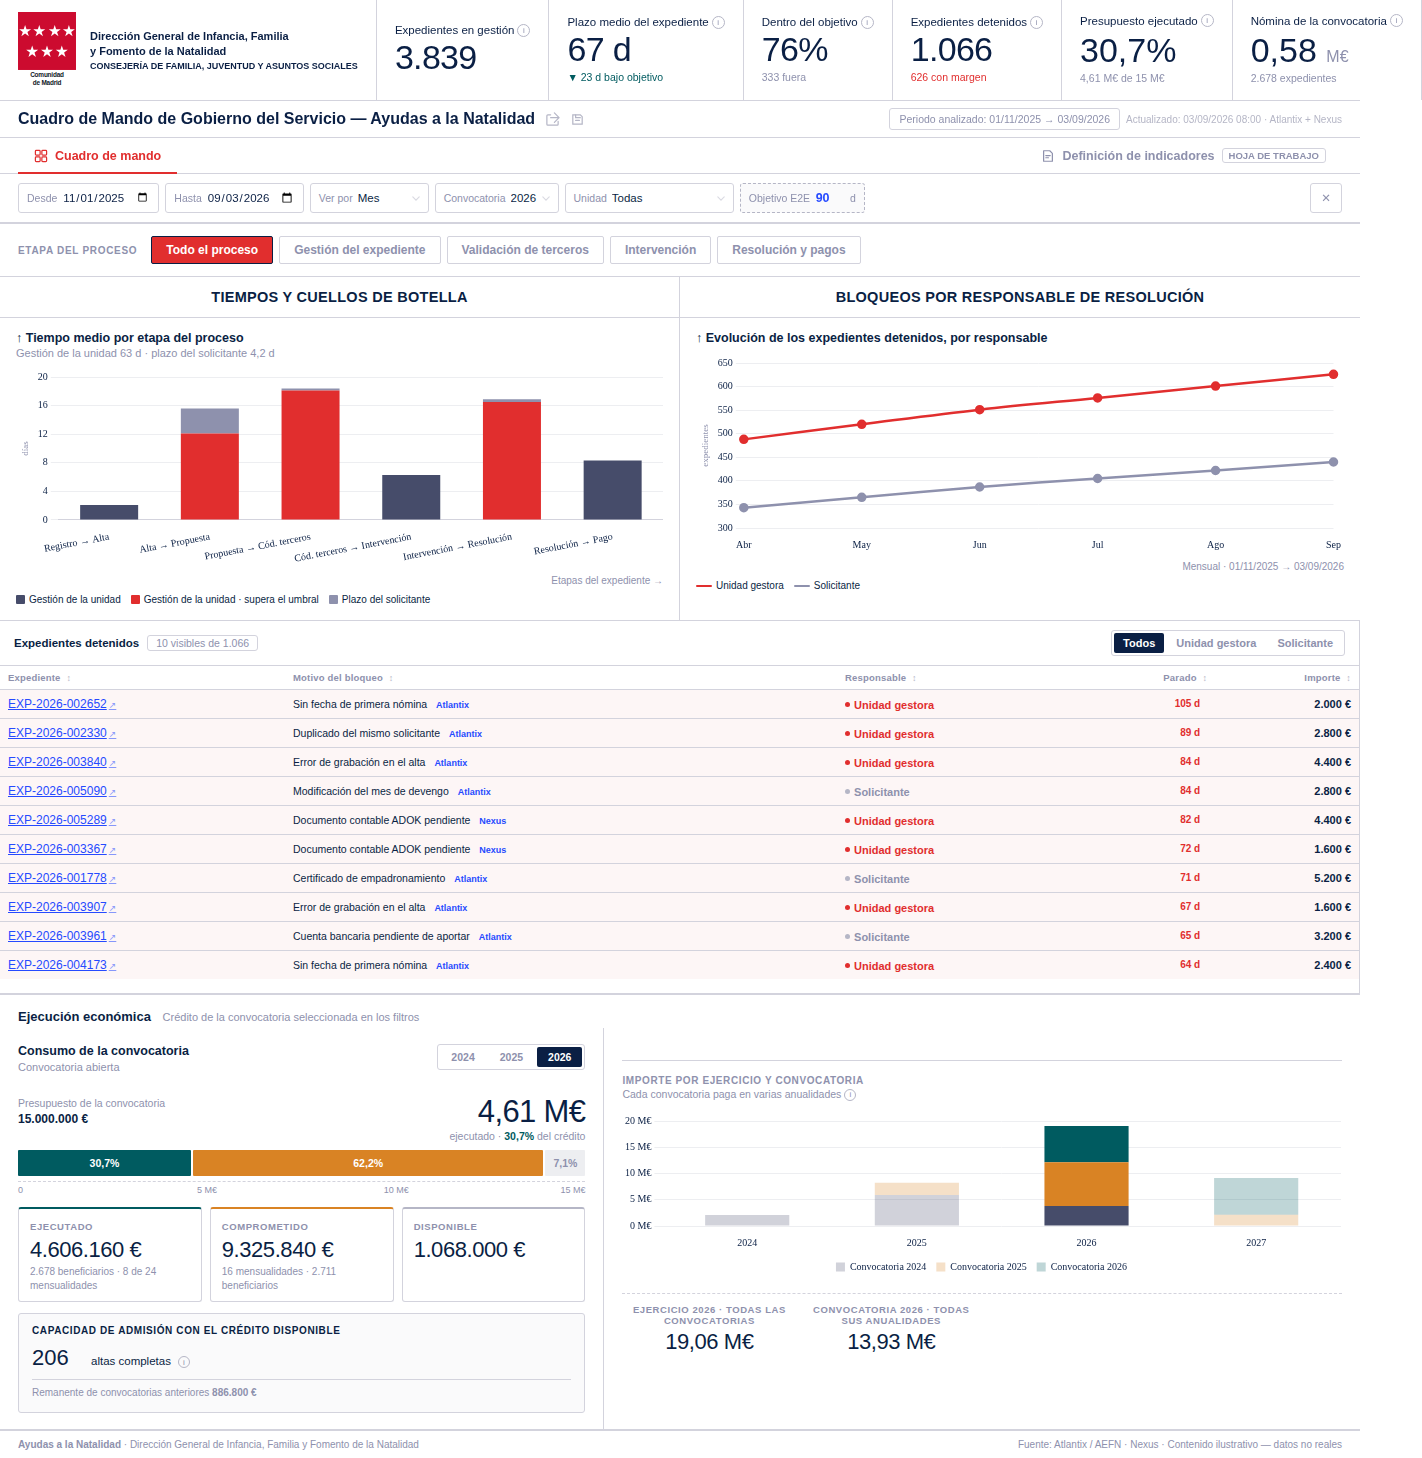
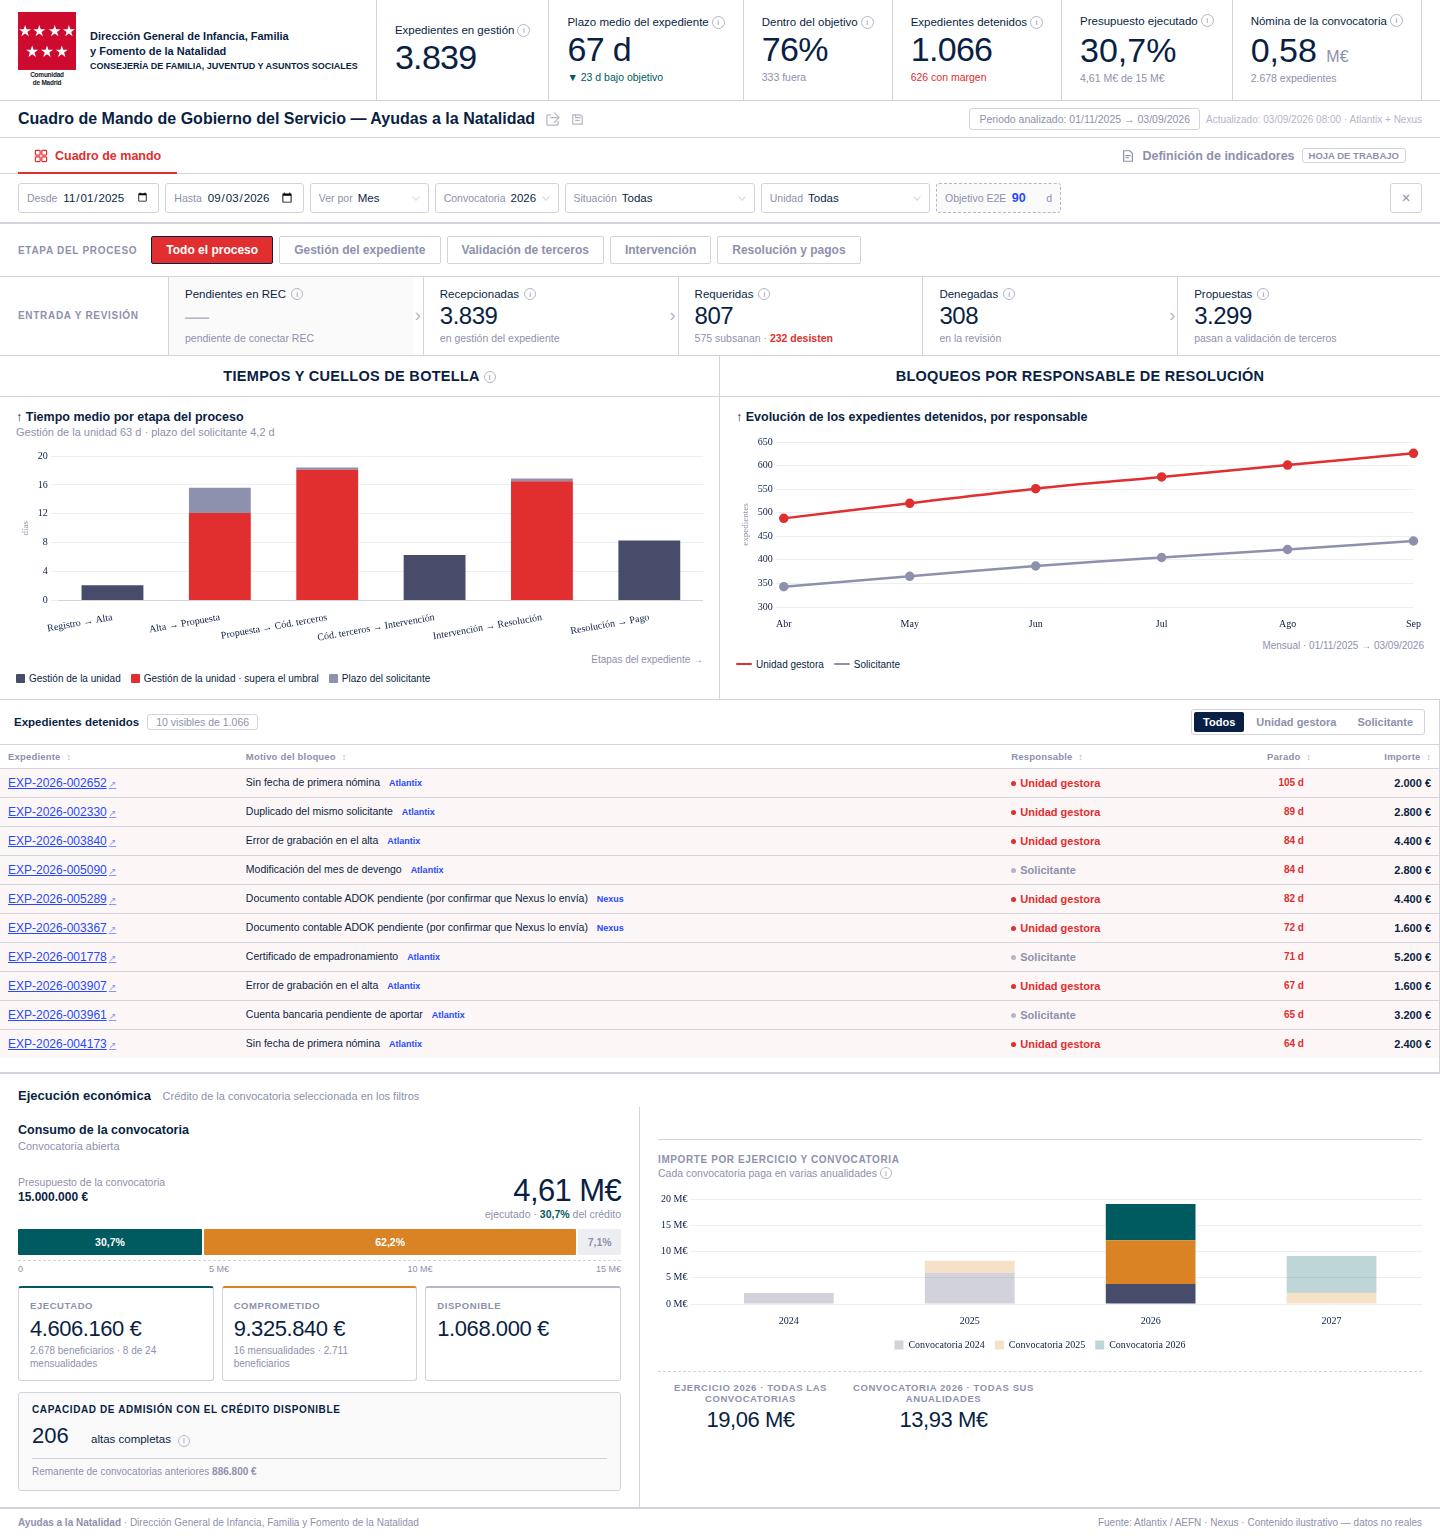
Natalidad v9.1: entrada y requerimientos, filtro de situación y avisos de lo pendiente
Claude-Session: https://claude.ai/code/session_012PCcGQXYr4PR8xb2pBrhox

diff --git a/mockups/MockupNatalidad_v9.html b/mockups/MockupNatalidad_v9.html
@@ -795,6 +795,20 @@ th.col-focus{background:#FAFAFB!important;color:#0A1F44!important;}
 
 .blk-ttl{padding:14px 18px 4px;font-size:13px;font-weight:700;color:var(--cnavy);border-top:1px solid var(--cbd);}
 .blk-ttl span{font-size:11px;font-weight:400;color:var(--cgy);margin-left:8px;}
+/* franja de entrada y revisión */
+.ent-strip{display:flex;align-items:stretch;gap:0;border-bottom:1px solid var(--cbd);padding:0 18px;background:#fff;}
+.ent-lbl{align-self:center;font-size:10px;font-weight:700;letter-spacing:.07em;text-transform:uppercase;color:var(--cgy);width:150px;flex-shrink:0;}
+.ent-it{padding:11px 16px;display:flex;flex-direction:column;gap:2px;border-left:1px solid var(--cbd);flex:1 1 0;min-width:0;}
+.ent-it span{font-size:11.5px;color:var(--cnavy);display:flex;align-items:center;gap:5px;}
+.ent-it b{font-size:24px;font-weight:300;color:var(--cnavy);letter-spacing:-.02em;line-height:1.15;}
+.ent-it em{font-style:normal;font-size:10.5px;color:var(--cgy);}
+.ent-it em strong{color:var(--cred);font-weight:600;}
+.ent-pend{background:#FAFAFB;}
+.ent-pend b{color:var(--cgy2);}
+.ent-arr{align-self:center;color:var(--cgy2);font-size:18px;padding:0 2px;}
+.ent-it .ii[data-t]::after{bottom:auto;top:calc(100% + 8px);}
+.ent-it .ii[data-t]::before{bottom:auto;top:calc(100% + 3px);border-top-color:transparent;border-bottom-color:var(--cnavy);}
+.ent-it:last-child .ii[data-t]::after{left:auto;right:-6px;transform:none;}
 </style>
 </head>
 <body>
@@ -866,6 +880,11 @@ th.col-focus{background:#FAFAFB!important;color:#0A1F44!important;}
     <div class="fsel"><span>Convocatoria</span>
       <select id="fConv" onchange="setConvCM(this.value)"><option value="2026">2026</option><option value="2025">2025</option><option value="2024">2024</option></select>
       <svg class="chev" viewBox="0 0 10 6" fill="none"><path d="M1 1l4 4 4-4" stroke="currentColor" stroke-width="1.4" stroke-linecap="round"/></svg></div>
+    <div class="fsel"><span>Situaci&oacute;n</span>
+      <select id="fRes" onchange="filtrar()">
+        <option value="">Todas</option><option>Alta</option><option>Mantenimiento</option><option>Baja</option>
+        <option>Modificaci&oacute;n positiva</option><option>Modificaci&oacute;n negativa</option><option>Pago &uacute;nico</option></select>
+      <svg class="chev" viewBox="0 0 10 6" fill="none"><path d="M1 1l4 4 4-4" stroke="currentColor" stroke-width="1.4" stroke-linecap="round"/></svg></div>
     <div class="fsel"><span>Unidad</span>
       <select id="fUnidad" onchange="filtrar()">
         <option value="">Todas</option><option>Unidad Gestora</option><option>Gesti&oacute;n Econ&oacute;mica</option></select>
@@ -898,6 +917,21 @@ th.col-focus{background:#FAFAFB!important;color:#0A1F44!important;}
   <span class="phase-meta" id="phaseMeta"></span>
 </div>
 
+<!-- ══════════ ENTRADA Y REQUERIMIENTOS ══════════
+     Lo que más se discutió el 29/09: cuántas siguen en REC sin tratar y qué pasa
+     con los requeridos (subsanan o desisten). Una línea, sin gráfico. -->
+<div class="ent-strip">
+  <span class="ent-lbl">Entrada y revisión</span>
+  <div class="ent-it ent-pend"><span>Pendientes en REC <i class="ii" data-t="Solicitudes presentadas en REC que todavía no han abierto expediente en AFN. Hoy no están en Atlantix: se mostrarán cuando se conecte REC (en conversación con administración electrónica).">i</i></span><b>—</b><em>pendiente de conectar REC</em></div>
+  <div class="ent-arr">›</div>
+  <div class="ent-it"><span>Recepcionadas <i class="ii" data-t="Solicitudes recepcionadas con expediente abierto en la etapa Gestión del expediente de Atlantix. Es la misma cifra que «Expedientes en gestión».">i</i></span><b id="entRec">—</b><em>en gestión del expediente</em></div>
+  <div class="ent-arr">›</div>
+  <div class="ent-it"><span>Requeridas <i class="ii" data-t="Expedientes que han quedado para requerir en la revisión de documentación. Los subsanados vuelven a revisión; los desistidos se cierran al vencer el plazo del artículo 73.">i</i></span><b>807</b><em>575 subsanan · <strong>232 desisten</strong></em></div>
+  <div class="ent-it"><span>Denegadas <i class="ii" data-t="Expedientes denegados en la revisión de documentación.">i</i></span><b>308</b><em>en la revisión</em></div>
+  <div class="ent-arr">›</div>
+  <div class="ent-it"><span>Propuestas <i class="ii" data-t="Altas y pagos únicos propuestos para la nómina: recepcionadas, menos requeridas que no subsanan y denegadas. Pendiente de confirmar con Soluciones si la propuesta es un cambio de etapa o un campo con fecha y visado.">i</i></span><b id="entProp">—</b><em>pasan a validación de terceros</em></div>
+</div>
+
 <!-- ══════════ 3 SECCIONES ══════════ -->
 <div id="cmVacio" class="cm-vacio"></div>
 <div id="cmBody">
@@ -918,7 +952,7 @@ th.col-focus{background:#FAFAFB!important;color:#0A1F44!important;}
 
   <!-- 2 · TIEMPOS Y CUELLOS -->
   <div class="section">
-    <div class="sec-title" id="s2Title">Tiempos y cuellos de botella</div>
+    <div class="sec-title" id="s2Title">Tiempos y cuellos de botella <i class="ii" data-t="Cada tramo es el tiempo entre dos cambios de etapa en Atlantix. El paso «Propuesta» está por confirmar con Soluciones: puede ser un cambio de etapa o un campo con fecha y visado dentro de Gestión del expediente.">i</i></div>
     <div class="sec-kpis" id="s2Kpis" style="display:none;"></div>
     <div class="sec-chart">
       <div class="c2-bread" id="c2Bread"></div>
@@ -1065,7 +1099,7 @@ th.col-focus{background:#FAFAFB!important;color:#0A1F44!important;}
         <h3>Consumo de la convocatoria</h3>
         <p id="cvSub">Reparto del crédito a 03/09/2026</p>
       </div>
-      <div class="cv-tabs" id="cvTabs">
+      <div class="cv-tabs" id="cvTabs" style="display:none;">
         <button data-cv="2024" onclick="setConv('2024')">2024</button>
         <button data-cv="2025" onclick="setConv('2025')">2025</button>
         <button data-cv="2026" class="on" onclick="setConv('2026')">2026</button>
@@ -1158,7 +1192,7 @@ th.col-focus{background:#FAFAFB!important;color:#0A1F44!important;}
     <strong>Lo que hoy no podemos calcular.</strong> Las solicitudes presentadas que todavía no han
     abierto expediente en AFN no están en Atlantix: habría que leerlas de REC, donde se clasifican por
     modelo de formulario y no siempre coinciden con lo que el ciudadano pide de verdad. Mientras no se
-    resuelva, la cola de entrada aparece marcada como pendiente en el explorador y en la previsión.
+    resuelva, «Pendientes en REC» aparece marcado como pendiente y el plazo se mide desde la recepción.
   </div>
 </div>
 <div class="attr">
@@ -1337,7 +1371,7 @@ const KPI_GLOBAL = [
    puede quedarse sola en la pantalla sin perder el cómo se ha calculado. */
 const TIP = {
  'Expedientes en gestión':'Expedientes de la convocatoria seleccionada que todavía no han llegado al pago, dentro del rango de fechas elegido.',
- 'Plazo medio del expediente':'Días desde la entrada de la solicitud en el registro del órgano competente hasta el pago, medidos sobre los expedientes que ya han llegado al pago. La mediana va debajo porque el promedio lo estiran unos pocos casos largos.',
+ 'Plazo medio del expediente':'Mientras REC no esté conectado se mide desde la recepción en AFN, no desde la entrada en registro: la fecha de REC no está en Atlantix. Definición objetivo: días desde la entrada de la solicitud en el registro del órgano competente hasta el pago, medidos sobre los expedientes que ya han llegado al pago. La mediana va debajo porque el promedio lo estiran unos pocos casos largos.',
  'Plazo medio de la etapa':'Días medios que consume esta etapa, y qué parte representa del plazo total del expediente.',
  'Dentro del objetivo':'Expedientes ya terminados que se resolvieron dentro del objetivo fijado en la barra de filtros. Por defecto es el plazo máximo normativo: 90 días desde la entrada de la solicitud en el registro del órgano competente.',
  'Dentro de objetivo':'Expedientes ya terminados cuyo plazo no superó el objetivo fijado en la barra de filtros. «En riesgo» son los que se acercan a él sin haberlo superado.',
@@ -1462,7 +1496,7 @@ const MOTIVOS = {
   intervencion: [['Sin fecha de primera nómina','Atlantix','adm',.37],
                  ['Reparo de Intervención','Atlantix','adm',.26],
                  ['Modificación del mes de devengo','Atlantix','sol',.37]],
-  pagos: [['Documento contable ADOK pendiente','Nexus','adm',.46],
+  pagos: [['Documento contable ADOK pendiente · por confirmar','Nexus','adm',.46],
           ['Resolución sin notificación','Atlantix','adm',.31],
           ['Orden de pago pendiente de firma','Atlantix','adm',.23]],
 };
@@ -1735,9 +1769,8 @@ function renderCiclo(P){
 
 /* ── los filtros ──────────────────────────────────────────────────────── */
 function filtrar(){
-  FCM.est = document.getElementById('fEstado').value;
-  FCM.res = document.getElementById('fRes').value;
-  FCM.uni = document.getElementById('fUnidad').value;
+  const v=id=>{ const e=document.getElementById(id); return e ? e.value : ''; };
+  FCM.est = v('fEstado'); FCM.res = v('fRes'); FCM.uni = v('fUnidad');
   renderCM();
 }
 function setConvCM(v){ FCM.conv = v; setConv(v); renderCM(); }
@@ -2528,6 +2561,8 @@ window.addEventListener('resize', () => { if (pxReady && document.getElementById
 const DFILAS = [
  ['Solicitudes en cola de entrada','Hoy no se calcula: la solicitud aún no ha abierto expediente',
   'Presentación en REC','Apertura de expediente en AFN','Registro / REC', 1],
+ ['Requeridas, subsanadas y desistidas','Expedientes requeridos en la revisión y cómo terminan',
+  'Requerimiento','Subsanación o desistimiento','—', 1],
  ['Expedientes en gestión','Expedientes con la solicitud recepcionada que no han llegado al pago',
   'Solicitud recepcionada','Pago','Vademécum · CURSO', 1],
  ['Plazo medio del expediente','Días entre la entrada en registro y el pago, solo sobre los ya pagados',
@@ -2540,10 +2575,6 @@ const DFILAS = [
   'Último cambio de estado','Hoy','Tipología de errores de terceros', 1],
  ['Pendientes del solicitante','Detenidos esperando documentación o subsanación del ciudadano',
   'Requerimiento notificado','Respuesta del ciudadano','—', 1],
- ['Variante mayoritaria','Expedientes por el camino más frecuente, sin repetir ninguna actividad',
-  'Solicitud recepcionada','Pago','—', 1],
- ['Expedientes con reproceso','Expedientes que vuelven atrás al menos una vez',
-  'Solicitud recepcionada','Pago','—', 1],
  ['Beneficiarias en alta','No contemplado todavía','—','—','Vademécum', 1],
  ['Beneficiarias en mantenimiento','No contemplado todavía','—','—','Vademécum', 1],
  ['Beneficiarias en baja','No contemplado todavía','—','—','Vademécum', 1],
@@ -2616,6 +2647,12 @@ initEjer(); dfInit(); renderConv();
           sv.options[2].textContent='Focalizar retrabajo ('+pRep+'%)'; }
 })();
 aplicarTips();
+(function franjaEntrada(){
+  const n = poblacion().length;
+  const set=(id,v)=>{const e=document.getElementById(id); if(e) e.textContent=v;};
+  set('entRec', nfmt(n));
+  set('entProp', nfmt(n - (807-575) - 308));
+})();
 
 
 
